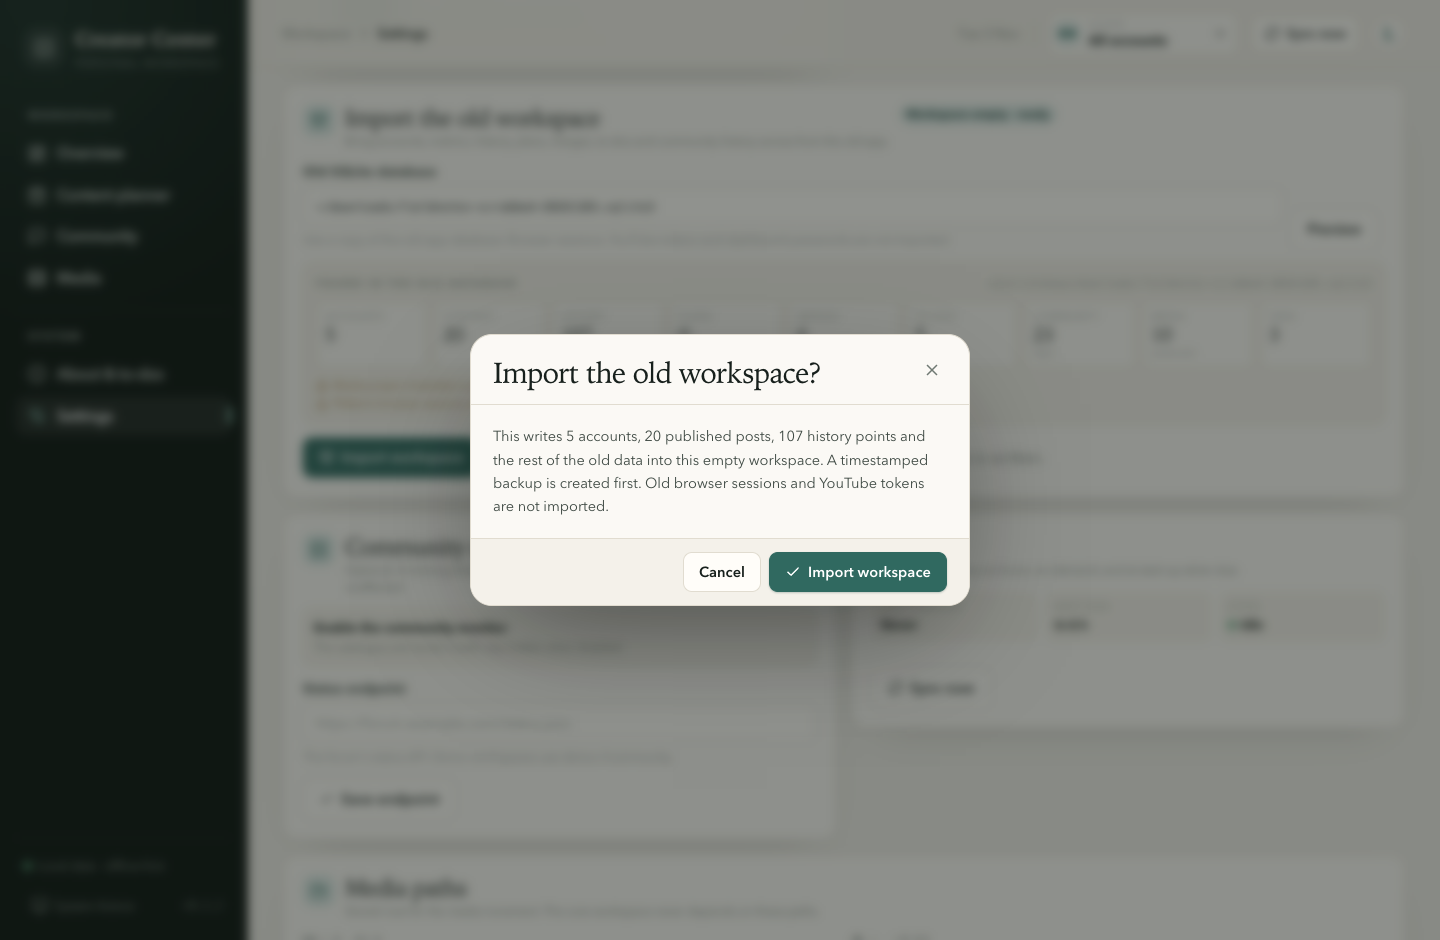
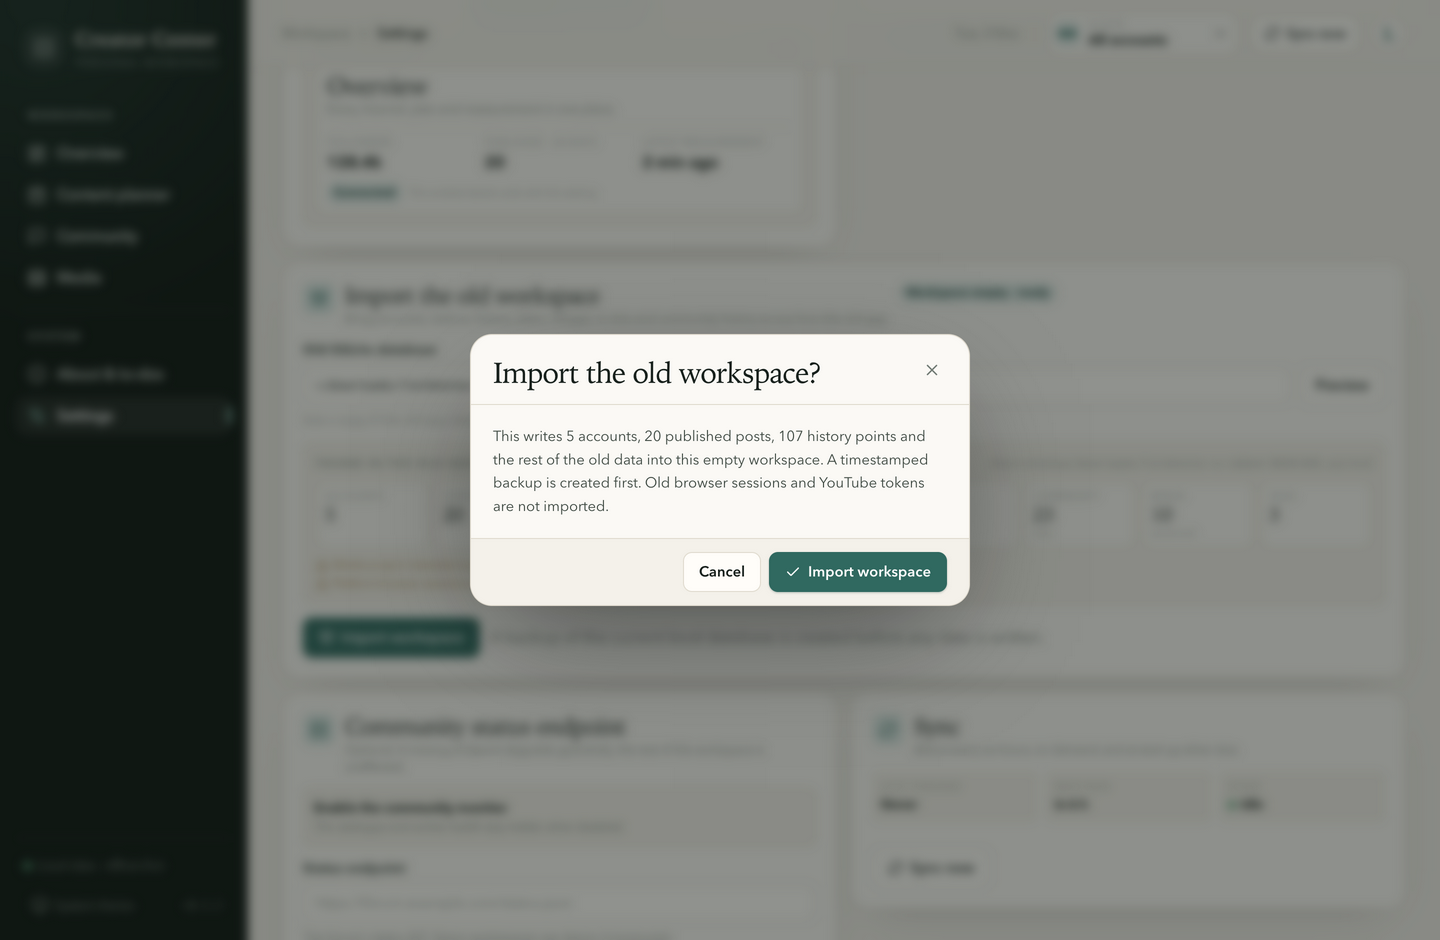
Name the account metric card and align the import actions
Rename the per-account metric section to Account metrics so it is clear the card belongs to
the account drawer.

Put Choose file and Preview on the same row as the database field. The field hint now
sits below that row, so the buttons no longer align to the hint's bottom edge.

Refresh the import captures for the new layout and add before/after evidence for both
follow-up fixes.

diff --git a/apps/web/src/pages/Settings.tsx b/apps/web/src/pages/Settings.tsx
@@ -292,30 +292,32 @@ export function SettingsPage({ onAddAccount }: { onAddAccount: () => void }) {
               label="Old SQLite database"
               hint="Use a copy of the old app database. Browser sessions, YouTube tokens and dashboard passwords are not imported."
             >
-              <TextInput
-                value={migrationPath}
-                onChange={(event) => {
-                  setMigrationPath(event.target.value);
-                  setMigrationPreview(null);
-                  setMigrationResult(null);
-                  setMigrationError('');
-                }}
-                placeholder="~/downloads/fieldnotes-2026-11-03.sqlite3"
-                spellCheck={false}
-              />
+              <div className="migration-source-row">
+                <TextInput
+                  value={migrationPath}
+                  onChange={(event) => {
+                    setMigrationPath(event.target.value);
+                    setMigrationPreview(null);
+                    setMigrationResult(null);
+                    setMigrationError('');
+                  }}
+                  placeholder="~/downloads/fieldnotes-2026-11-03.sqlite3"
+                  spellCheck={false}
+                />
+                {chooseFile && (
+                  <Button variant="secondary" onClick={() => void chooseMigrationFile()} disabled={migrationBusy}>
+                    Choose file
+                  </Button>
+                )}
+                <Button
+                  variant="secondary"
+                  onClick={() => void previewMigration()}
+                  disabled={migrationBusy || !migrationPath.trim()}
+                >
+                  {migrationBusy ? 'Checking…' : 'Preview'}
+                </Button>
+              </div>
             </Field>
-            {chooseFile && (
-              <Button variant="secondary" onClick={() => void chooseMigrationFile()} disabled={migrationBusy}>
-                Choose file
-              </Button>
-            )}
-            <Button
-              variant="secondary"
-              onClick={() => void previewMigration()}
-              disabled={migrationBusy || !migrationPath.trim()}
-            >
-              {migrationBusy ? 'Checking…' : 'Preview'}
-            </Button>
           </div>
           {migrationError && (
             <p className="settings-error" role="alert"><AlertTriangle size={14} /> {migrationError}</p>

diff --git a/apps/web/src/styles.css b/apps/web/src/styles.css
@@ -5828,20 +5828,26 @@ html[data-desktop-platform="darwin"] .window-drag-strip {
 /* Old-workspace migration                                                    */
 /* -------------------------------------------------------------------------- */
 
-.migration-source {
-  display: grid;
-  grid-template-columns: minmax(0, 1fr) auto auto;
-  align-items: end;
-  gap: 8px;
-}
-
 .migration-source .field {
   min-width: 0;
 }
 
-.migration-source .input {
+.migration-source-row {
+  display: flex;
+  align-items: center;
+  gap: 8px;
+}
+
+.migration-source-row .input {
+  flex: 1 1 auto;
+  width: auto;
+  min-width: 0;
   font-family: var(--font-mono);
   font-size: calc(10.5px * var(--font-scale));
+}
+
+.migration-source-row .btn {
+  flex: 0 0 auto;
 }
 
 .migration-report {
@@ -5958,19 +5964,16 @@ html[data-desktop-platform="darwin"] .window-drag-strip {
   .migration-counts {
     grid-template-columns: repeat(5, minmax(0, 1fr));
   }
-  .migration-source {
-    grid-template-columns: minmax(0, 1fr) auto;
-  }
-  .migration-source .btn:first-of-type {
-    grid-column: 2;
-  }
 }
 
 @media (max-width: 760px) {
   .migration-counts {
     grid-template-columns: repeat(3, minmax(0, 1fr));
   }
-  .migration-source {
-    grid-template-columns: 1fr;
+  .migration-source-row {
+    flex-wrap: wrap;
+  }
+  .migration-source-row .input {
+    flex-basis: 100%;
   }
 }

diff --git a/apps/web/src/pages/About.tsx b/apps/web/src/pages/About.tsx
@@ -24,6 +24,7 @@ const CHANGELOG = [
       'Added an opt-in importer for the old SQLite workspace: accounts, metrics, history, posts, plans, tags, merges, to-dos and Community history.',
       'Every import previews the source first, requires an empty workspace, creates a timestamped database backup, and preserves media project metadata for the media increment.',
       'Old browser sessions and YouTube tokens are deliberately not imported; accounts reconnect after migration.',
+      'The per-account metric table is now labelled Account metrics, and the import file actions line up with the database field.',
     ],
   },
   {

diff --git a/apps/web/src/components/AccountSheet.tsx b/apps/web/src/components/AccountSheet.tsx
@@ -228,7 +228,7 @@ export function AccountSheet({
             <section className="detail-section">
               <div className="detail-section-head metric-detail-head">
                 <div>
-                  <h4>Metric detail</h4>
+                  <h4>Account metrics</h4>
                   <span>
                     {showAllMetrics
                       ? 'All 11 metrics · scope, availability, period and source'

diff --git a/docs/screenshots/README.md b/docs/screenshots/README.md
@@ -44,6 +44,21 @@ opens collapsed to followers, posts, likes, comments and shares, and expands to 
 The source path shown in the captures is the scrubbed database supplied for validation; the
 importer opens it read-only and never writes to it.
 
+## UI follow-up: metric card name and import actions (v0.1.2)
+
+Both pairs use the 1440 × 940 viewport and the light theme. The account-metric pair uses the same
+imported 抖音 account; the import-action pair uses the same non-empty workspace. Before is the
+v0.1.2 head at `9aeb7bb`; after is the follow-up commit.
+
+| Before — "Metric detail" | After — "Account metrics" |
+| --- | --- |
+| ![Before metric card](before-followup-account-metrics.png) | ![After account metrics](after-followup-account-metrics.png) |
+| ![Before import actions](before-followup-import-actions.png) | ![After import actions](after-followup-import-actions.png) |
+
+The table is now labelled `Account metrics`, making it clear that the card belongs to the
+per-account drawer. `Choose file` and `Preview` now sit on the same row as the database field
+instead of aligning to the bottom of its hint.
+
 ## Original first increment
 
 | File | What it shows |
